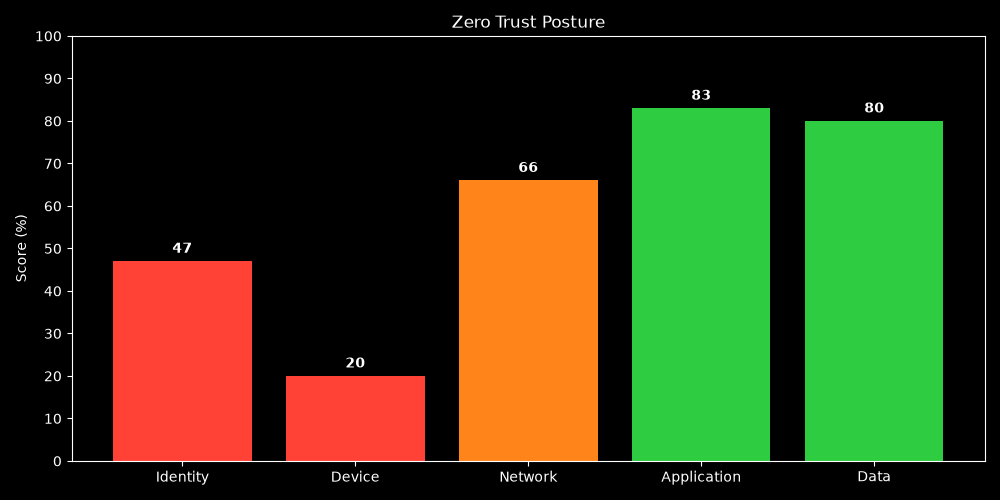
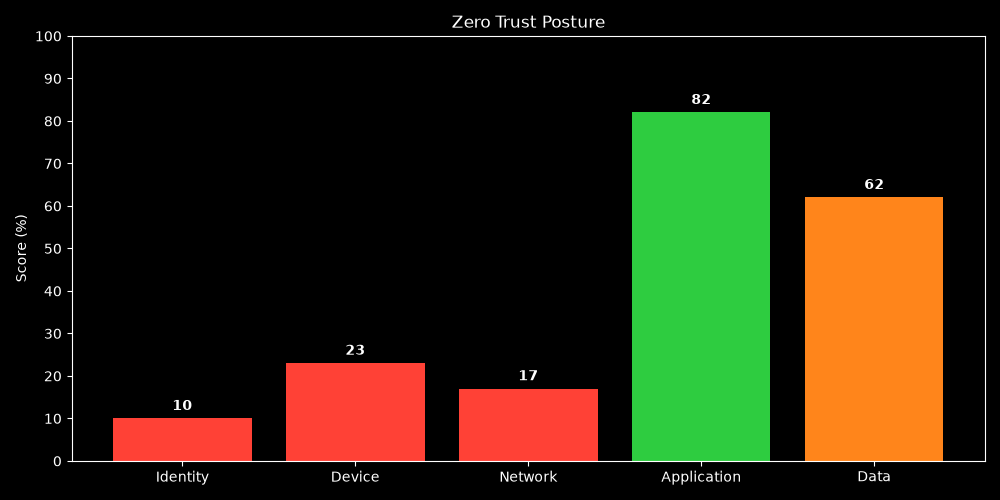
Automated dashboard update

Changed region(s): [[0.093, 0.33, 0.62, 0.93], [0.806, 0.21, 0.961, 0.93], [0.62, 0.18, 0.775, 0.24]]

diff --git a/README.md b/README.md
@@ -84,16 +84,16 @@ The **Zero Trust Dashboard** provides an automated, real-time view of an organiz
 ### 🗂 Metrics Table
 | Control | Domain | Score (%) |
 |---------|--------|-----------|
-| A.12.7 | Technical Vulnerability Management | 28 |
-| A.5.1 | InfoSec Policies | 59 |
-| A.6.1 | Org InfoSec | 75 |
-| A.8.2 | Risk Management | 0 |
-| A.9.2 | Access Control | 82 |
-| Application | Application | 83 |
-| Data | Data | 80 |
-| Device | Device | 20 |
-| Identity | Identity | 47 |
-| Network | Network | 66 |
+| A.12.7 | Technical Vulnerability Management | 37 |
+| A.5.1 | InfoSec Policies | 99 |
+| A.6.1 | Org InfoSec | 13 |
+| A.8.2 | Risk Management | 33 |
+| A.9.2 | Access Control | 81 |
+| Application | Application | 82 |
+| Data | Data | 62 |
+| Device | Device | 23 |
+| Identity | Identity | 10 |
+| Network | Network | 17 |
 
 ## 🚦 Color Codes
 